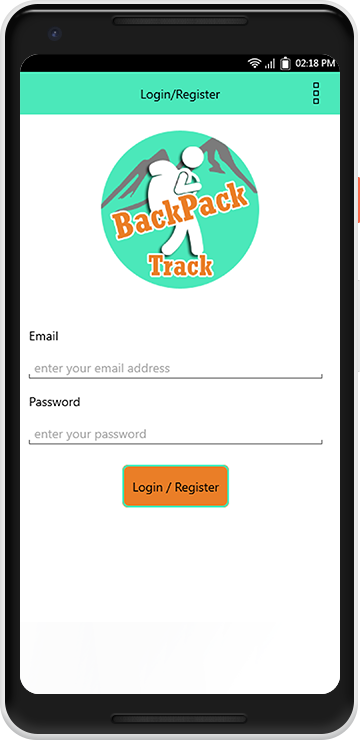
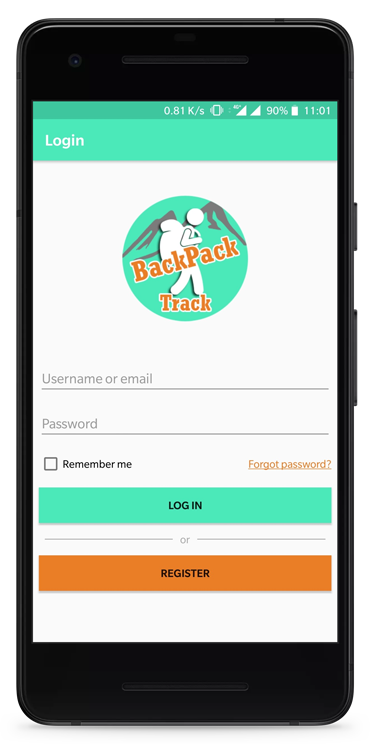
change the apps mockup screenshots in Landing Page to the actual finished apps screenshots

diff --git a/resources/views/landing.blade.php b/resources/views/landing.blade.php
@@ -412,7 +412,7 @@
 	<div class="container">
 		<div class="row bg-elipse-red">
 			<div class="col-lg-4">
-				<div class="image"><img src="{{ asset('landingpage/images/phones/pixel-budgets.png') }}" alt="backpacktrack-app"></div>
+				<div class="image"><img class="img-fluid" src="{{ asset('landingpage/images/phones/pixel-budgets.png') }}" alt="backpacktrack-app"></div>
 			</div>
 			<div class="col-lg-8 align-self-center">
 				<div class="content">
